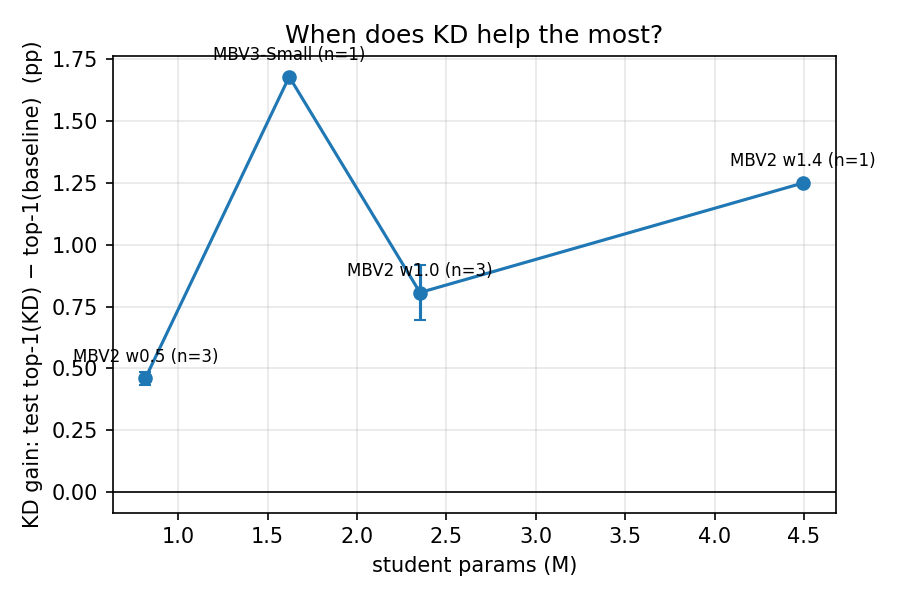
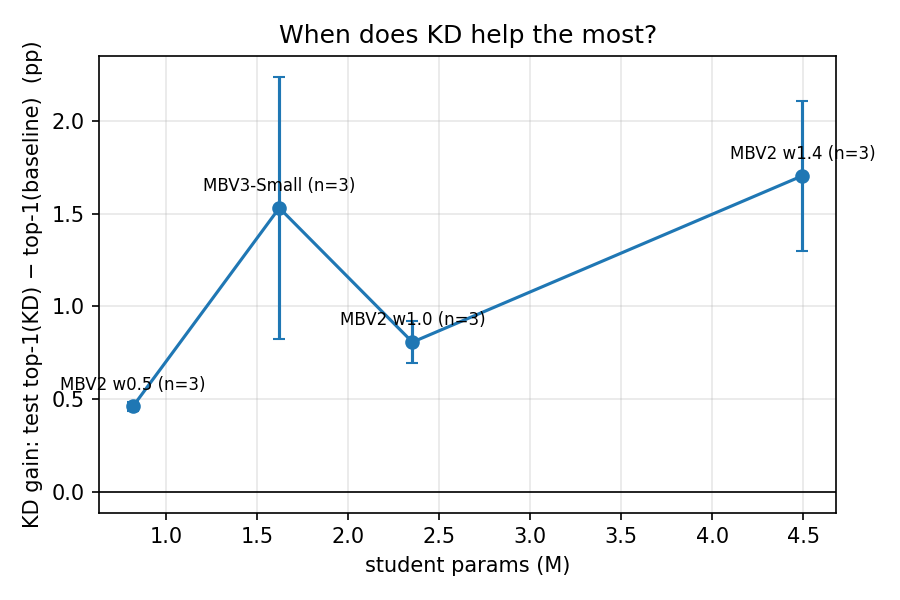
3 seeds for all students; mixed INT8 export results on full test set; docs

diff --git a/README.md b/README.md
@@ -124,37 +124,41 @@ Phone latency is measured with TFLite `benchmark_model` through `adb` (see `scri
 | `scripts/benchmark.py` | Params / FLOPs / file size (+ on-device latency via adb) |
 | `scripts/queue_night3.*`, `queue_exp4.py`, `queue_seeds.py`, `sweep*.{py,ps1}`, `overnight_night1.ps1`, `pretrained_baselines.ps1` | v1 history (test-selected protocol); not used for headline results |
 
-## Results so far (CIFAR-100, v2, test top-1; mean over seeds where n > 1)
+## Results so far (CIFAR-100, v2, test top-1; mean ± std over 3 seeds: 42 / 0 / 1)
 
 | Model | Params (M) | Seeds | Baseline | KD (T=2, alpha=0.9) | Gain (pp) |
 |---|---|---|---|---|---|
 | ResNet-50 (teacher) | 23.71 | 1 | 85.46 | — | — |
 | MobileNetV2 w0.5 | 0.82 | 3 | 74.71 ± 0.16 | 75.17 ± 0.15 | +0.46 |
-| MobileNetV3-Small | 1.62 | 1 | 78.34 | 80.02 | +1.68 |
+| MobileNetV3-Small | 1.62 | 3 | 78.24 ± 0.26 | 79.77 ± 0.50 | +1.53 |
 | MobileNetV2 w1.0 | 2.35 | 3 | 80.82 ± 0.07 | 81.63 ± 0.18 | +0.81 |
-| MobileNetV2 w1.4 | 4.50 | 1 | 82.36 | 83.61 | +1.25 |
+| MobileNetV2 w1.4 | 4.50 | 3 | 82.36 ± 0.02 | 84.06 ± 0.40 | +1.70 |
 
-Per-seed paired gains (seeds 42 / 0 / 1): w0.5 +0.45 / +0.44 / +0.49, w1.0 +0.85 / +0.89 / +0.68, i.e. small but
-positive for every seed. w1.4 and MobileNetV3-Small are still single-seed. The gain grows with width inside
-MobileNetV2, but optimizer (AdamW for w0.5 / MBV3-S, SGD for w1.0 / w1.4, each chosen on val) and architecture are
-mixed with size, so size alone cannot be credited. The final tables and figures are produced by
-`scripts/plot_results.py` (`results/summary_table_v2.csv`, `results/figures/`). On-device latency results are still
-to come (see `task.md`).
+Per-seed paired gains (seeds 42 / 0 / 1): w0.5 +0.45 / +0.44 / +0.49, w1.0 +0.85 / +0.89 / +0.68,
+w1.4 +1.25 / +2.02 / +1.84, MBV3-S +1.68 / +2.15 / +0.76 — positive for every student and every seed. The gain grows
+with width inside MobileNetV2 (+0.46, +0.81, +1.70), but optimizer (AdamW for w0.5 / MBV3-S, SGD for w1.0 / w1.4, each
+chosen on val) and architecture are mixed with size; the optimizer check below shows the width trend also holds with
+AdamW alone. The final tables and figures are produced by `scripts/plot_results.py`
+(`results/summary_table_v2.csv`, `results/figures/`). On-device latency results are still to come (see `task.md`).
 
-### Exported TFLite models (CIFAR-100 test set; INT8 = dynamic-range, full 10k images)
+### Exported TFLite models (CIFAR-100 test set, full 10k images; KD checkpoints / baseline checkpoints)
 
-| Model | FP32 .tflite (MiB) | INT8 .tflite (MiB) | PyTorch FP32 KD / baseline | INT8 KD / baseline |
-|---|---|---|---|---|
-| MobileNetV2 w0.5 | 3.12 | 0.94 | 75.03 / 74.58 | 71.63 / 71.75 |
-| MobileNetV3-Small | 6.22 | 1.75 | 80.02 / 78.34 | 13.14 / 9.76 (broken) |
-| MobileNetV2 w1.0 | 8.95 | 2.52 | 81.71 / 80.86 | 81.78 / 80.59 |
-| MobileNetV2 w1.4 | 17.10 | 4.65 | 83.61 / 82.36 | 83.23 / 81.97 |
-| ResNet-50 (teacher) | 90.39 | — | 85.46 (FP32) | — |
+| Model | FP32 .tflite (MiB) | PyTorch FP32 | INT8 dynamic (MiB) | INT8 dynamic | INT8 mixed (MiB) | INT8 mixed |
+|---|---|---|---|---|---|---|
+| MobileNetV2 w0.5 | 3.12 | 75.03 / 74.58 | 0.94 | 71.63 / 71.75 | 1.00 | **74.67 / 74.43** |
+| MobileNetV3-Small | 6.22 | 80.02 / 78.34 | 1.75 | 13.14 / 9.76 (broken) | 1.89 | **79.52 / 78.04** |
+| MobileNetV2 w1.0 | 8.95 | 81.71 / 80.86 | 2.52 | 81.78 / 80.59 | 2.62 | 81.78 / 80.48 |
+| MobileNetV2 w1.4 | 17.10 | 83.61 / 82.36 | 4.65 | 83.23 / 81.97 | 4.79 | 83.55 / 82.26 |
+| ResNet-50 (teacher) | 90.39 | 85.46 | — | — | — | — |
 
-FP32 TFLite predictions are identical to PyTorch (100% agreement on all models). Dynamic INT8 is accurate for
-w1.0 / w1.4 (and the KD advantage of about +1.2 pp survives quantization), loses 3.4 pp on w0.5 and breaks MobileNetV3-Small.
-On 2000 test images, weight-only INT8 keeps MBV3-S usable (79.65 vs 80.30 FP32) but still costs w0.5 about 2.9 pp
-(72.85 vs 75.75); static INT8 was worse. The reason is not established. Latency on the phone is still to come.
+FP32 TFLite predictions are identical to PyTorch (100% agreement on all models). "Mixed" = regular convs and the
+classifier in int8, depthwise convs kept in float32. Plain dynamic INT8 loses 3.4 pp on w0.5 and breaks
+MobileNetV3-Small; a PyTorch diagnosis (`scripts/diag_quant.py`) shows the w0.5 loss comes from its depthwise layers
+(int8 on depthwise only: -2.6 pp; same layers in w1.0: -0.05 pp) and that the conversion itself is correct (PyTorch
+fake-quantization reproduces the TFLite weight-only accuracy exactly). Why w0.5's depthwise weights are so sensitive is
+not established. The mixed recipe recovers the accuracy (w0.5 -0.36 pp vs FP32, MBV3-S -0.50 pp) at about the same
+size; the KD advantage survives quantization (+1.3 pp on w1.0 and w1.4). Because depthwise layers stay float, the
+latency gain of "mixed" may be smaller than for full INT8 — to be measured on the phone.
 
 ### Low-data study (CIFAR-100, pretrained, test top-1, 20 epochs, single seed, KD T=2 alpha=0.9)
 

diff --git a/task.md b/task.md
@@ -65,6 +65,7 @@ Preliminary v1 trend (test-selected, optimistic): KD gain ≈ 0 on w0.5 (3 seeds
 - [x] `scripts\queue_v2_exp4.ps1` finished 25 Oct (2.1 h, 7 runs, no failures): KD (T2, α0.9) on w0.5 / w1.4 / MBV3-S + alpha probe (α 0.1, 0.5 at T2 on w0.5 and w1.4; discussion only). Files: `results/kd_gain_v2.csv`, `results/alpha_probe_v2.csv`
 - Alpha probe (test gain vs baseline, pp, single seed; α = 0.1 / 0.5 / 0.9): w0.5 +0.32 / +0.40 / +0.45 · w1.0 +0.52 / +1.06 / +0.85 · w1.4 +0.28 / +1.53 / +1.25. α = 0.5 is slightly better than the common α = 0.9 on w1.0 and w1.4 (val agrees: w1.4 +1.04 vs +1.00), but the 0.2–0.3 pp difference is within noise; α = 0.1 is clearly weakest on the larger students; w0.5 is flat and small. Decision stays: common T2 / α0.9 (mention as a limitation)
 - [x] Seed check done 25 Oct (`scripts\queue_v2_seeds.ps1`, 8 runs, 1.9 h): seeds 42 / 0 / 1 on w0.5 and w1.0. Baseline vs KD test (mean ± std): w0.5 74.71 ± 0.16 -> 75.17 ± 0.15 (gain +0.46; per seed +0.45 / +0.44 / +0.49); w1.0 80.82 ± 0.07 -> 81.63 ± 0.18 (gain +0.81; per seed +0.85 / +0.89 / +0.68). Gains are small but positive for every seed and larger than seed spread (~0.1–0.2 pp) -> likely real, for these two students. This replaces the earlier v1 impression that w0.5 gains ≈ 0. w1.4 and MBV3-S remain single seed (optional: `--seeds --seed-students w1.4 mbv3s`, ~1.3 h)
+- [x] Seeds for w1.4 and MBV3-S done 25 Oct (`scripts\queue_v2_seeds.ps1 -Students "w1.4 mbv3s"`, 8 runs, 2.0 h). All four students now have 3 seeds (42 / 0 / 1). Baseline -> KD test (mean ± std): w0.5 74.71 ± 0.16 -> 75.17 ± 0.15 (+0.46) · w1.0 80.82 ± 0.07 -> 81.63 ± 0.18 (+0.81) · **w1.4 82.36 ± 0.02 -> 84.06 ± 0.40 (+1.70)** · **MBV3-S 78.24 ± 0.26 -> 79.77 ± 0.50 (+1.53)**. Per-seed paired gains are positive for every student and seed (w1.4 +1.25 / +2.02 / +1.84, MBV3-S +1.68 / +2.15 / +0.76). Within MobileNetV2 the gain grows with width (+0.46 -> +0.81 -> +1.70). `results/kd_gain_v2.csv`, figures regenerated
 - [x] Optimizer de-confound done 25 Oct (`scripts\queue_recipe_swap.ps1`, 4 KD runs, 1.1 h, single seed 42; `results/recipe_swap_v2.csv`). KD gain on test (pp), SGD / AdamW: w0.5 **+6.25** / +0.45 · w1.0 +0.85 / +1.07 · w1.4 +1.25 / +1.87 · MBV3-S +1.64 / +1.68. Findings: (1) with AdamW the gain rises monotonically with width (+0.45 -> +1.07 -> +1.87), so the width trend is not just an optimizer artefact; (2) with SGD it holds for w1.0 -> w1.4 but w0.5 is a huge outlier (+6.25) because its SGD baseline is badly under-trained (60.63 vs 74.58 with AdamW) — same lesson as from-scratch: KD helps a lot when the student baseline is weak/under-optimized; (3) MBV3-S gain is about the same under both optimizers (+1.6). Caveat: these 4 new runs are single seed
 
 ### Phase 3 — Plots & tables
